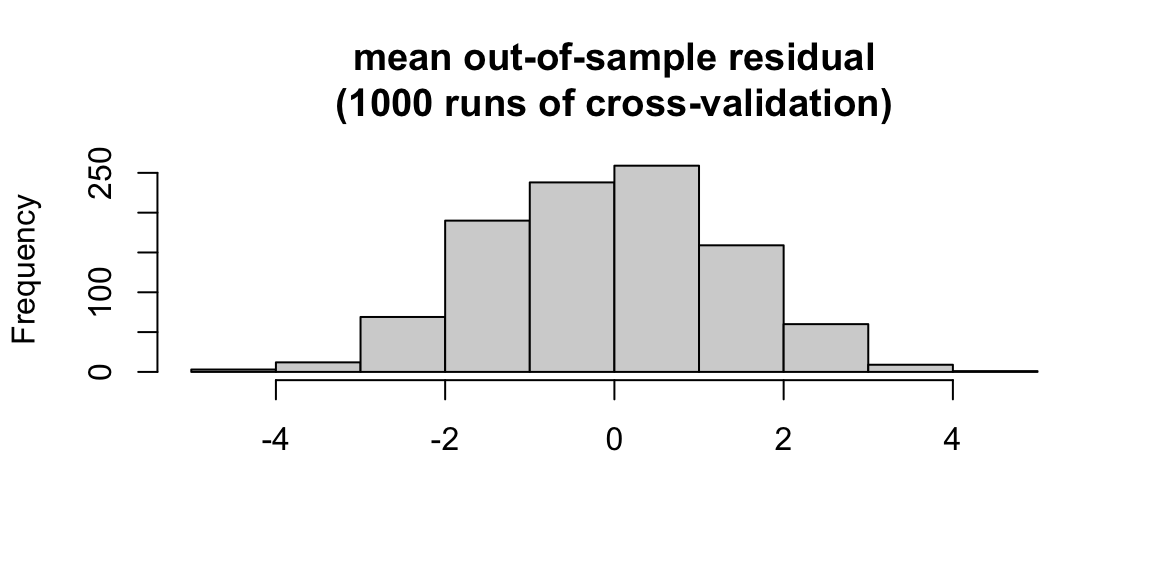
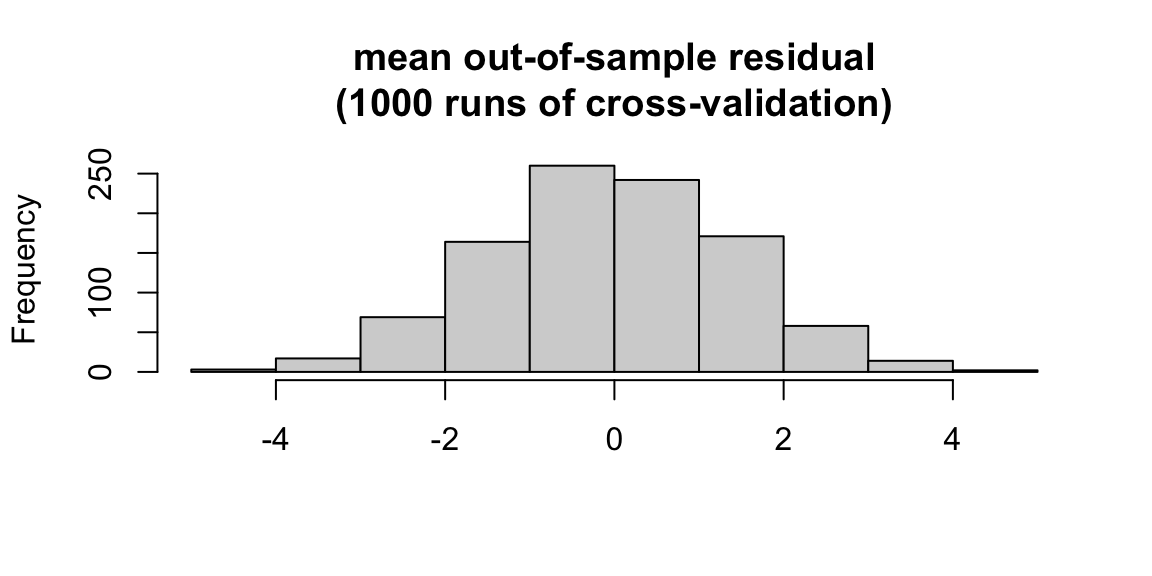
commit

diff --git a/public/post/economic-forces/index.html b/public/post/economic-forces/index.html
@@ -93,7 +93,7 @@
 <!-- raw HTML omitted -->
 <p>Below is the mean out-of-sample residuals, which validates our model:</p>
 <!-- raw HTML omitted -->
-<pre tabindex="0"><code>## [1] 1.129218
+<pre tabindex="0"><code>## [1] 1.147849
 </code></pre><p>Next, I examine the percent change in unemployment rate and how that correlates with the percentage of the votes that the incumbent party receives for each election year from 1964 to 2020.</p>
 <!-- raw HTML omitted -->
 <!-- raw HTML omitted -->
@@ -120,7 +120,7 @@
 </code></pre><!-- raw HTML omitted -->
 <p>Below is the mean out-of-sample residuals:</p>
 <!-- raw HTML omitted -->
-<pre tabindex="0"><code>## [1] 1.020659
+<pre tabindex="0"><code>## [1] 1.074076
 </code></pre>
 
 		
@@ -138,7 +138,7 @@
         		<footer>
 			
 			<span>
-			&copy; <time datetime="2022-12-16 21:33:21.32868 -0500 EST m=&#43;0.387300388">2022</time> . Made with <a href='https://gohugo.io'>Hugo</a> using the <a href='https://github.com/EmielH/tale-hugo/'>Tale</a> theme.
+			&copy; <time datetime="2022-12-16 21:41:01.008964 -0500 EST m=&#43;0.409280811">2022</time> . Made with <a href='https://gohugo.io'>Hugo</a> using the <a href='https://github.com/EmielH/tale-hugo/'>Tale</a> theme.
 			</span>
 		</footer>
 

diff --git a/public/post/index.html b/public/post/index.html
@@ -117,7 +117,7 @@ FiveThirtyEight utilizes three different versions of models: Lite, Classic, and 
         		<footer>
 			
 			<span>
-			&copy; <time datetime="2022-12-16 21:33:21.340445 -0500 EST m=&#43;0.399065904">2022</time> . Made with <a href='https://gohugo.io'>Hugo</a> using the <a href='https://github.com/EmielH/tale-hugo/'>Tale</a> theme.
+			&copy; <time datetime="2022-12-16 21:41:01.018663 -0500 EST m=&#43;0.418980185">2022</time> . Made with <a href='https://gohugo.io'>Hugo</a> using the <a href='https://github.com/EmielH/tale-hugo/'>Tale</a> theme.
 			</span>
 		</footer>
 

diff --git a/public/index.html b/public/index.html
@@ -122,7 +122,7 @@ FiveThirtyEight utilizes three different versions of models: Lite, Classic, and 
         		<footer>
 			
 			<span>
-			&copy; <time datetime="2022-12-16 21:33:21.343658 -0500 EST m=&#43;0.402278937">2022</time> . Made with <a href='https://gohugo.io'>Hugo</a> using the <a href='https://github.com/EmielH/tale-hugo/'>Tale</a> theme.
+			&copy; <time datetime="2022-12-16 21:41:01.01865 -0500 EST m=&#43;0.418967022">2022</time> . Made with <a href='https://gohugo.io'>Hugo</a> using the <a href='https://github.com/EmielH/tale-hugo/'>Tale</a> theme.
 			</span>
 		</footer>
 

diff --git a/public/post/incumbency/index.html b/public/post/incumbency/index.html
@@ -85,7 +85,7 @@ the expert predictions were in 2018. I do this by visualizing actual voteshare (
         		<footer>
 			
 			<span>
-			&copy; <time datetime="2022-12-16 21:33:21.328695 -0500 EST m=&#43;0.387315010">2022</time> . Made with <a href='https://gohugo.io'>Hugo</a> using the <a href='https://github.com/EmielH/tale-hugo/'>Tale</a> theme.
+			&copy; <time datetime="2022-12-16 21:41:00.991318 -0500 EST m=&#43;0.391634440">2022</time> . Made with <a href='https://gohugo.io'>Hugo</a> using the <a href='https://github.com/EmielH/tale-hugo/'>Tale</a> theme.
 			</span>
 		</footer>
 

diff --git a/public/post/introduction/index.html b/public/post/introduction/index.html
@@ -97,7 +97,7 @@ As determined by the key on the right, the GOP two-party vote share margin in Mi
         		<footer>
 			
 			<span>
-			&copy; <time datetime="2022-12-16 21:33:21.328666 -0500 EST m=&#43;0.387285796">2022</time> . Made with <a href='https://gohugo.io'>Hugo</a> using the <a href='https://github.com/EmielH/tale-hugo/'>Tale</a> theme.
+			&copy; <time datetime="2022-12-16 21:41:01.003302 -0500 EST m=&#43;0.403619030">2022</time> . Made with <a href='https://gohugo.io'>Hugo</a> using the <a href='https://github.com/EmielH/tale-hugo/'>Tale</a> theme.
 			</span>
 		</footer>
 

diff --git a/public/post/polling/index.html b/public/post/polling/index.html
@@ -100,7 +100,7 @@
         		<footer>
 			
 			<span>
-			&copy; <time datetime="2022-12-16 21:33:21.339947 -0500 EST m=&#43;0.398567021">2022</time> . Made with <a href='https://gohugo.io'>Hugo</a> using the <a href='https://github.com/EmielH/tale-hugo/'>Tale</a> theme.
+			&copy; <time datetime="2022-12-16 21:41:01.035581 -0500 EST m=&#43;0.435898109">2022</time> . Made with <a href='https://gohugo.io'>Hugo</a> using the <a href='https://github.com/EmielH/tale-hugo/'>Tale</a> theme.
 			</span>
 		</footer>
 

diff --git a/public/categories/index.html b/public/categories/index.html
@@ -57,7 +57,7 @@
         		<footer>
 			
 			<span>
-			&copy; <time datetime="2022-12-16 21:33:21.343018 -0500 EST m=&#43;0.401638661">2022</time> . Made with <a href='https://gohugo.io'>Hugo</a> using the <a href='https://github.com/EmielH/tale-hugo/'>Tale</a> theme.
+			&copy; <time datetime="2022-12-16 21:41:01.027548 -0500 EST m=&#43;0.427865093">2022</time> . Made with <a href='https://gohugo.io'>Hugo</a> using the <a href='https://github.com/EmielH/tale-hugo/'>Tale</a> theme.
 			</span>
 		</footer>
 

diff --git a/public/tags/index.html b/public/tags/index.html
@@ -57,7 +57,7 @@
         		<footer>
 			
 			<span>
-			&copy; <time datetime="2022-12-16 21:33:21.345781 -0500 EST m=&#43;0.404401595">2022</time> . Made with <a href='https://gohugo.io'>Hugo</a> using the <a href='https://github.com/EmielH/tale-hugo/'>Tale</a> theme.
+			&copy; <time datetime="2022-12-16 21:41:01.034616 -0500 EST m=&#43;0.434933873">2022</time> . Made with <a href='https://gohugo.io'>Hugo</a> using the <a href='https://github.com/EmielH/tale-hugo/'>Tale</a> theme.
 			</span>
 		</footer>
 

diff --git a/content/post/economic-forces/index.md b/content/post/economic-forces/index.md
@@ -72,7 +72,7 @@ Below is the mean out-of-sample residuals, which validates our model:
 <img src="{{< blogdown/postref >}}index_files/figure-html/unnamed-chunk-8-1.png" width="70%" style="display: block; margin: auto;" />
 
 ```
-## [1] 1.129218
+## [1] 1.147849
 ```
 
 Next, I examine the percent change in unemployment rate and how that correlates with the percentage of the votes that the incumbent party receives for each election year from 1964 to 2020.
@@ -124,5 +124,5 @@ Below is the mean out-of-sample residuals:
 <img src="{{< blogdown/postref >}}index_files/figure-html/unnamed-chunk-17-1.png" width="70%" style="display: block; margin: auto;" />
 
 ```
-## [1] 1.020659
+## [1] 1.074076
 ```
